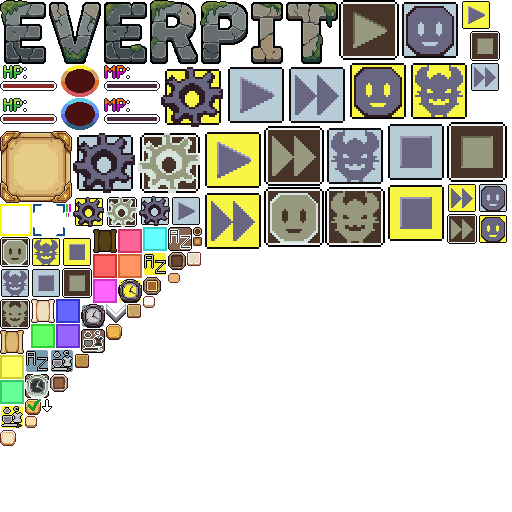
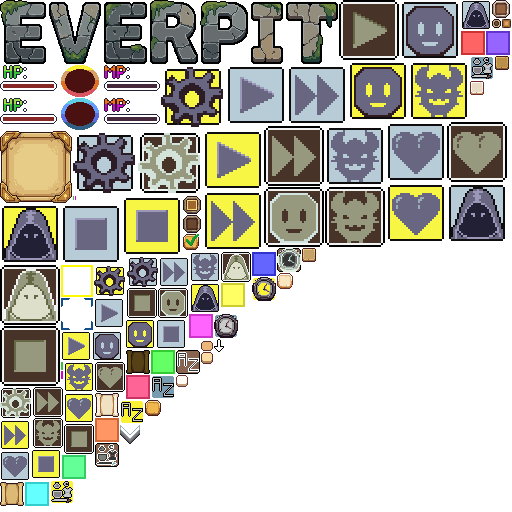
New button textures

Changed region(s): [[0.0, 0.375, 0.625, 1.0], [0.75, 0.25, 1.0, 0.5], [0.875, 0.0, 1.0, 0.1875]]

diff --git a/PitHero/UI/ReplenishUI.cs b/PitHero/UI/ReplenishUI.cs
@@ -65,13 +65,12 @@ namespace PitHero.UI
         {
             var uiAtlas = Core.Content.LoadSpriteAtlas("Content/Atlases/UI.atlas");
 
-            // Use Gear sprites as placeholder
-            var sprite = uiAtlas.GetSprite("UIGear");
-            var sprite2x = uiAtlas.GetSprite("UIGear2x");
-            var highlight = uiAtlas.GetSprite("UIGearHighlight");
-            var highlight2x = uiAtlas.GetSprite("UIGearHighlight2x");
-            var inverse = uiAtlas.GetSprite("UIGearInverse");
-            var inverse2x = uiAtlas.GetSprite("UIGearInverse2x");
+            var sprite = uiAtlas.GetSprite("UIReplenish");
+            var sprite2x = uiAtlas.GetSprite("UIReplenish2x");
+            var highlight = uiAtlas.GetSprite("UIReplenishHighlight");
+            var highlight2x = uiAtlas.GetSprite("UIReplenishHighlight2x");
+            var inverse = uiAtlas.GetSprite("UIReplenishInverse");
+            var inverse2x = uiAtlas.GetSprite("UIReplenishInverse2x");
 
             _normalStyle = new ImageButtonStyle
             {

diff --git a/features/feature_replenish_button_sprites.md b/features/feature_replenish_button_sprites.md
@@ -1,0 +1,112 @@
+# Feature: Replenish Button Dedicated Atlas Sprites
+
+## 1. Feature Name
+Replenish Button Dedicated Atlas Sprites
+
+## 2. Objective
+Replace the placeholder Gear atlas sprites on the Replenish UI button with the newly-added dedicated Replenish sprites so the button has its own visual identity.
+
+## 3. Research Summary
+
+### Relevant Files & Why
+| File | Role |
+|------|------|
+| `PitHero/UI/ReplenishUI.cs` (lines 70-80) | **Only file that needs changes.** Contains `CreateButton()` which loads atlas sprites and builds `_normalStyle` / `_halfStyle`. |
+| `PitHero/Content/Atlases/UI.atlas` | Already contains all six required sprites (confirmed). |
+| `PitHero/UI/SettingsUI.cs` | Owns and positions `ReplenishUI`. No changes needed — it references the component, not its sprites. |
+
+### Atlas Sprites Available (confirmed in UI.atlas)
+| Sprite Name | Size | Purpose |
+|-------------|------|---------|
+| `UIReplenish` | Normal | Up state (idle) |
+| `UIReplenishHighlight` | Normal | Over state (hover) |
+| `UIReplenishInverse` | Normal | Down state (pressed) |
+| `UIReplenish2x` | Half | Up state (half-window) |
+| `UIReplenishHighlight2x` | Half | Over state (half-window) |
+| `UIReplenishInverse2x` | Half | Down state (half-window) |
+
+### Existing Pattern to Reuse
+The `CreateButton()` method already follows the exact pattern: load sprites from atlas → build `ImageButtonStyle` with `ImageUp`/`ImageDown`/`ImageOver` → assign to `_normalStyle` and `_halfStyle`. Only the string keys change.
+
+### Constraints & Rules
+- Must use `HoverableImageButton` (already in use — no change).
+- AOT compliance: no dynamic strings in game loop (sprite names are loaded once in `CreateButton()` — safe).
+- No new styles, no font changes, no skin mutations needed.
+
+### Risks / Edge Cases
+- None significant. This is a 6-string substitution in a single method.
+
+## 4. Scope
+
+### In Scope
+- Update sprite name strings in `ReplenishUI.CreateButton()`.
+
+### Out of Scope
+- No new monsters or equipment required — **skip**.
+- No virtual game layer changes required — **skip**.
+- No localization changes — button tooltip text is unchanged.
+- No SettingsUI layout changes — button dimensions are read from the sprite's `SourceRect`, so if the new sprites are the same pixel size, positioning is automatic.
+
+## 5. Constraints & Standards
+- Follow Nez UI skill: use `HoverableImageButton`, `SpriteDrawable`, `ImageButtonStyle`.
+- Comment rule: method already has `/// <summary>` — no changes needed.
+- Remove the "Use Gear sprites as placeholder" comment (now incorrect).
+
+## 6. Implementation Phases
+
+### Phase 1: Update Sprite References (single task)
+
+**Task 1.1 — Change sprite name strings in `ReplenishUI.CreateButton()`**
+
+Target file: `PitHero/UI/ReplenishUI.cs`, lines 72-79.
+
+Replace:
+```csharp
+// Use Gear sprites as placeholder
+var sprite = uiAtlas.GetSprite("UIGear");
+var sprite2x = uiAtlas.GetSprite("UIGear2x");
+var highlight = uiAtlas.GetSprite("UIGearHighlight");
+var highlight2x = uiAtlas.GetSprite("UIGearHighlight2x");
+var inverse = uiAtlas.GetSprite("UIGearInverse");
+var inverse2x = uiAtlas.GetSprite("UIGearInverse2x");
+```
+
+With:
+```csharp
+var sprite = uiAtlas.GetSprite("UIReplenish");
+var sprite2x = uiAtlas.GetSprite("UIReplenish2x");
+var highlight = uiAtlas.GetSprite("UIReplenishHighlight");
+var highlight2x = uiAtlas.GetSprite("UIReplenishHighlight2x");
+var inverse = uiAtlas.GetSprite("UIReplenishInverse");
+var inverse2x = uiAtlas.GetSprite("UIReplenishInverse2x");
+```
+
+**Definition of done:** The six `GetSprite()` calls reference `UIReplenish*` names, the placeholder comment is removed, and the file compiles cleanly.
+
+## 7. Test & Validation Plan
+
+- **Build:** `dotnet build`
+- **Unit tests:** `dotnet test PitHero.Tests/`
+- **Manual smoke test:** Launch game, verify Replenish button renders with new artwork in both normal and half-height window modes; hover and click states display correct sprites.
+
+No new unit tests required — no logic change, only cosmetic asset swap.
+
+## 8. Risks & Mitigations
+
+| Risk | Likelihood | Mitigation |
+|------|-----------|------------|
+| New sprites are a different pixel size than Gear sprites | Low | Button size is set from `sprite.SourceRect` dynamically, so it auto-adjusts. SettingsUI repositions based on `GetWidth()`. |
+| Typo in sprite name causes runtime null ref | Low | Names confirmed present in atlas via grep. Build + run will surface any mismatch immediately. |
+
+## 9. Open Questions / Decisions Needed
+None — all information is available.
+
+## 10. Acceptance Criteria
+1. `ReplenishUI.CreateButton()` references `UIReplenish`, `UIReplenishHighlight`, `UIReplenishInverse` (and their `2x` variants).
+2. No references to `UIGear*` remain in `ReplenishUI.cs`.
+3. `dotnet build` succeeds.
+4. `dotnet test PitHero.Tests/` passes.
+5. Replenish button visually renders the new sprites in both normal and half-height modes.
+
+## 11. Downstream Handoff Notes
+This is a trivial cosmetic change. A single `replace_string_in_file` call on `ReplenishUI.cs` (lines 72-79) is sufficient. No other files, systems, or agents are affected.
